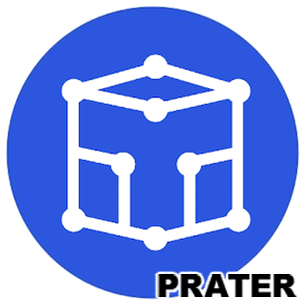
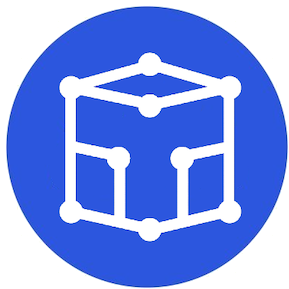
Update prater appearances to lukso

diff --git a/GETTING_STARTED.md b/GETTING_STARTED.md
@@ -1,5 +1,5 @@
-## Welcome to the Merged Goerli/Prater Consensus Client: Teku
+## Welcome to the LUKSO Consensus Client: Teku
 
-- Your keystores should now be managed in the Web3Signer's [New Staking Brain](http://brain.web3signer-prater.dappnode/)
-- Don't have the Web3Signer installed yet? It can be manually installed [here](http://my.dappnode/#/installer/web3signer-prater.dnp.dappnode.eth)
-- All Staking Management has a new home in the Comprehensive [StakersUI](http://my.dappnode/#/stakers/prater)
+- Your keystores should now be managed in the Web3Signer's [New Staking Brain](http://brain.web3signer-lukso.dappnode/)
+- Don't have the Web3Signer installed yet? It can be manually installed [here](http://my.dappnode/#/installer/web3signer-lukso.dnp.dappnode.eth)
+- All Staking Management has a new home in the Comprehensive [StakersUI](http://my.dappnode/#/stakers/lukso)

diff --git a/README.md b/README.md
@@ -1,13 +1,9 @@
-# Teku DAppNode package (prater config)
+# Teku DAppNode package (LUKSO config)
 
-**Teku prater ETH2.0 Beacon chain + validator**
+**Teku LUKSO ETH2.0 Beacon chain + validator**
 
 Teku is a full Ethereum 2.0 client built to meet institutional needs and security requirements.
 
 Written in Java and maintained by the same team behind Besu, Teku is equipped to bring staking services to businesses.
 
 ![avatar](teku-avatar.png)
-
-|      Updated       |   Champion/s    |
-| :----------------: | :-------------: |
-| :heavy_check_mark: | @pablomendez_95 |
